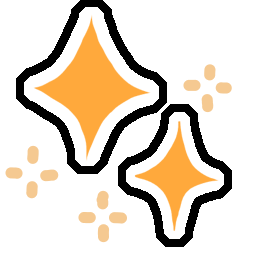
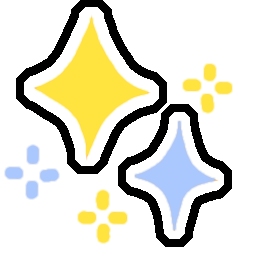
Achievements

diff --git a/Stargazer/Features/StargazerAchievements.cs b/Stargazer/Features/StargazerAchievements.cs
@@ -1,0 +1,43 @@
+using AchievementsAPI.API;
+using MiraAPI.Events;
+using MiraAPI.Events.Vanilla.Gameplay;
+using MiraAPI.Modifiers;
+using Stargazer.Roles.Impostors.Cowboy;
+using Stargazer.Roles.Impostors.Sleepcaster;
+using UnityEngine;
+
+namespace Stargazer.Features;
+
+public class StargazerAchievements : AchievementsTab
+{
+    public override string Name => "Stargazer Achievements";
+    public override Color GetTabColor()
+    {
+        return RFSPalette.RfsColor2;
+    }
+
+    public override Sprite GetIcon()
+    {
+        return Assets.ModIcon.LoadAsset();
+    }
+
+    public BaseAchievement MechanicAchievement1 { get; } = new BaseAchievement("You're not going anywhere",
+        "Disconnect a vent direction.", "Stargazer.Resources.RoleIcons.mechanic.png");
+    public BaseAchievement MechanicAchievement2 { get; } = new BaseAchievement("Gonna sit there?",
+        "Disconnect a vent from all paths.", "Stargazer.Resources.RoleIcons.mechanic.png");
+    
+    public BaseAchievement CarrierAchievement1 { get; } = new("Weight lifter",
+        "Carry and throw a body.",  "Stargazer.Resources.RoleIcons.carrier.png");
+    public BaseAchievement CarrierAchievement2 { get; } = new("Hidden in plain sight",
+        "Throw a body into a vent.", "Stargazer.Resources.RoleIcons.carrier.png");
+    public BaseAchievement CarrierAchievement3 { get; } =
+        new("Ouchies!", "Throw a body onto someone to crush them to death.", "Stargazer.Resources.RoleIcons.carrier.png");
+    
+    public BaseAchievement CowboyAchievement1 { get; } = new("Snatch em'", "Pull a player to you.",  "Stargazer.Resources.RoleIcons.cowboy.png");
+    public BaseAchievement CowboyAchievement2 { get; } = new("On the hunt.", "Use the lasso ability 3 times in one game.", "Stargazer.Resources.RoleIcons.cowboy.png");
+    public BaseAchievement CowboyAchievement3 { get; } = new("You're mine!", "Pull a player that was put to sleep.", "Stargazer.Resources.RoleIcons.cowboy.png");
+
+    public BaseAchievement SleepcasterAchievement1 { get; } =
+        new BaseAchievement("Zzz", "Put atleast two players to sleep with one ability usage.", "Stargazer.Resources.RoleIcons.sleepcaster.png");
+    public BaseAchievement SleepcasterAchievement2 { get; } = new("Sleep paralysis", "Kill an asleep player.", "Stargazer.Resources.RoleIcons.sleepcaster.png");
+}

diff --git a/Stargazer/Roles/Impostors/Cowboy/Lasso.cs b/Stargazer/Roles/Impostors/Cowboy/Lasso.cs
@@ -1,25 +1,40 @@
+using AchievementsAPI.API;
 using MiraAPI.GameOptions;
 using MiraAPI.Hud;
 using MiraAPI.Modifiers;
 using MiraAPI.Utilities;
 using MiraAPI.Utilities.Assets;
+using Stargazer.Features;
 using Stargazer.Networking;
+using Stargazer.Roles.Impostors.Sleepcaster;
 using UnityEngine;
 
 namespace Stargazer.Roles.Impostors.Cowboy;
 
 public class Lasso : CustomActionButton
 {
+    private int timesUsed = 0;
     protected override void OnClick()
     {
+        timesUsed++;
+        AchievementsTabSingleton<StargazerAchievements>.Instance.CowboyAchievement1.Unlock();
+        if (timesUsed == 3) AchievementsTabSingleton<StargazerAchievements>.Instance.CowboyAchievement2.Unlock();
         PlayerControl.LocalPlayer.transform.GetComponent<HnSImpostorScreamSfx>().LocalImpostorYeehaw();
         var target = PlayerControl.LocalPlayer.GetClosestPlayer(false, 1000f, true);
+        if (target == null) return;
         PlayerControl.LocalPlayer.RpcLasso(target);
+        if (target.HasModifier<SleepyModifier>()) AchievementsTabSingleton<StargazerAchievements>.Instance.CowboyAchievement3.Unlock();
     }
 
     public override bool Enabled(RoleBehaviour role)
     {
         return role is CowboyRole;
+    }
+
+    public override void CreateButton(Transform parent)
+    {
+        base.CreateButton(parent);
+        timesUsed = 0;
     }
 
     public override string Name => "Lasso";

diff --git a/Stargazer/Roles/Impostors/Sleepcaster/SleepcasterRole.cs b/Stargazer/Roles/Impostors/Sleepcaster/SleepcasterRole.cs
@@ -1,4 +1,9 @@
+using AchievementsAPI.API;
+using MiraAPI.Events;
+using MiraAPI.Events.Vanilla.Gameplay;
+using MiraAPI.Modifiers;
 using MiraAPI.Roles;
+using Stargazer.Features;
 using UnityEngine;
 
 namespace Stargazer.Roles.Impostors.Sleepcaster;
@@ -19,4 +24,10 @@ public class SleepcasterRole : ImpostorRole, ICustomRole
     {
         Icon = Assets.SleepcasterRoleIcon
     };
+
+    [RegisterEvent]
+    public static void OnMurder(BeforeMurderEvent e)
+    {
+        if (e.Source.AmOwner && e.Target.HasModifier<SleepyModifier>()) AchievementsTabSingleton<StargazerAchievements>.Instance.SleepcasterAchievement2.Unlock();
+    }
 }

diff --git a/Stargazer/Features/MainMenu/ReworkedMainMenu.cs b/Stargazer/Features/MainMenu/ReworkedMainMenu.cs
@@ -1,5 +1,6 @@
 using System;
 using MiraAPI.Utilities;
+using Stargazer.Utilities;
 using UnityEngine;
 
 namespace Stargazer.Features.MainMenu;
@@ -16,5 +17,14 @@ public static class ReworkedMainMenu
         }
 
         menu.mainButtons[0].transform.parent.parent.GetComponent<SpriteRenderer>().material.color = new(0f, 0.9f, 1.1f, 1);
+
+        var trophyBtn = PassiveButtonUtils.CreatePassiveButton("TrophyButton", Assets.Trophy, Assets.TrophyActive,
+            Vector2.one,
+            () =>
+            {
+                var achievementMenu = UnityObject.Instantiate(AchievementsAPI.Assets.achievementPrefab);
+                menu.DeactivateMainMenuUI();
+            });
+        trophyBtn.transform.position = menu.quitButton.transform.position + new Vector3(4, 0, 0);
     }
 }

diff --git a/Stargazer/Networking/RPCHandling.cs b/Stargazer/Networking/RPCHandling.cs
@@ -1,5 +1,6 @@
 using System.Collections;
 using System.Linq;
+using AchievementsAPI.API;
 using MiraAPI.GameOptions;
 using MiraAPI.Modifiers;
 using MiraAPI.Utilities;
@@ -15,6 +16,7 @@ using Stargazer.Utilities;
 using Reactor.Networking.Attributes;
 using Reactor.Utilities;
 using Reactor.Utilities.Extensions;
+using Stargazer.Features;
 using Stargazer.Roles.Impostors.Florist;
 using UnityEngine;
 using UnityEngine.ProBuilder;
@@ -277,7 +279,10 @@ public static class RPCHandler
         })));
         
         //Modifier assignment logic
-        foreach (var p in Helpers.GetClosestPlayers(source, 3f * OptionGroupSingleton<SleepcasterOptions>.Instance.AbilityRange.Value))
+        var closePlayers = Helpers.GetClosestPlayers(source,
+            3f * OptionGroupSingleton<SleepcasterOptions>.Instance.AbilityRange.Value);
+        if (source.AmOwner && closePlayers.Count >= 2) AchievementsTabSingleton<StargazerAchievements>.Instance.SleepcasterAchievement1.Unlock();
+        foreach (var p in closePlayers)
         {
             p.AddModifier<SleepyModifier>();
         }

diff --git a/Stargazer/Roles/Crewmates/Mechanic/DisconnectAbility.cs b/Stargazer/Roles/Crewmates/Mechanic/DisconnectAbility.cs
@@ -1,10 +1,12 @@
 using System.Linq;
+using AchievementsAPI.API;
 using Il2CppSystem;
 using MiraAPI.Hud; 
 using MiraAPI.Utilities;
 using MiraAPI.Utilities.Assets;
 using Reactor.Utilities.Extensions;
 using Rewired;
+using Stargazer.Features;
 using Stargazer.Networking;
 using UnityEngine;
 using UnityEngine.Events;
@@ -42,6 +44,8 @@ public class DisconnectAbility : CustomActionButton<Vent>
                     Target.SetButtons(false);
                     
                     PlayerControl.LocalPlayer.moveable = true;
+                    AchievementsTabSingleton<StargazerAchievements>.Instance.MechanicAchievement1.Unlock();
+                    if (Target.Buttons.Count(x => x.enabled) == 0) AchievementsTabSingleton<StargazerAchievements>.Instance.MechanicAchievement2.Unlock();
                 }
             }));
         }

diff --git a/Stargazer/Roles/Impostors/Carrier/CarryingModifier.cs b/Stargazer/Roles/Impostors/Carrier/CarryingModifier.cs
@@ -1,6 +1,7 @@
 using System;
 using System.Collections;
 using System.Linq;
+using AchievementsAPI.API;
 using MiraAPI.Events;
 using MiraAPI.Events.Vanilla.Gameplay;
 using MiraAPI.GameOptions;
@@ -12,6 +13,7 @@ using Reactor.Utilities;
 using Stargazer.Components;
 using Stargazer.Utilities;
 using Reactor.Utilities.Extensions;
+using Stargazer.Features;
 using UnityEngine;
 using UnityEngine.Events;
 
@@ -137,6 +139,7 @@ public class CarryingModifier(byte PlayerId) : BaseModifier
                             Effects.Action(new System.Action((() => Player.CustomMurder(nearbyPlayer,
                                 MurderResultFlags.DecisionByHost, teleportMurderer: false, showKillAnim: false))))
                         ));
+                        if (Player.AmOwner) AchievementsTabSingleton<StargazerAchievements>.Instance.CarrierAchievement2.Unlock();
                     }
                     
                     else if (nearbyVent && options.ThrowInVent)
@@ -145,6 +148,7 @@ public class CarryingModifier(byte PlayerId) : BaseModifier
                         Body.transform.SetParent(nearbyVent.transform);
                         if (nearbyVent.EnterVentAnim) nearbyVent.myAnim.Play(nearbyVent.EnterVentAnim, 1f);
                         Coroutines.Start(RFSEffects.Boop(nearbyVent.transform, 0.3f, 2.5f, 0.3f));
+                        if (Player.AmOwner) AchievementsTabSingleton<StargazerAchievements>.Instance.CarrierAchievement3.Unlock();
                     }
                 })
         ));

diff --git a/Stargazer/RFSAssets.cs b/Stargazer/RFSAssets.cs
@@ -166,4 +166,7 @@ public static class Assets
     public static LoadableResourceAsset WildcardRoleIcon { get; } =  new("Stargazer.Resources.RoleIcons.wildcard.png");
     public static LoadableBundleAsset<GameObject> FloristTallGrass { get; } = new("FloristTallGrass.prefab", Bundle);
     public static LoadableBundleAsset<GameObject> FloristFlowers { get; } = new("FloristFlowers.prefab", Bundle);
+    public static LoadableResourceAsset ModIcon { get; } = new("Stargazer.Resources.UI.ModIcon.png");
+    public static LoadableResourceAsset Trophy { get; } = new("Stargazer.Resources.UI.Trophy.png");
+    public static LoadableResourceAsset TrophyActive { get; } = new("Stargazer.Resources.UI.TrophyActive.png");
 }

diff --git a/Stargazer/Roles/Impostors/Carrier/Carry.cs b/Stargazer/Roles/Impostors/Carrier/Carry.cs
@@ -1,9 +1,11 @@
+using AchievementsAPI.API;
 using MiraAPI.GameOptions;
 using MiraAPI.Hud;
 using MiraAPI.Modifiers;
 using MiraAPI.Utilities;
 using MiraAPI.Utilities.Assets;
 using PowerTools;
+using Stargazer.Features;
 using UnityEngine;
 
 namespace Stargazer.Roles.Impostors.Carrier;
@@ -13,6 +15,7 @@ public class Carry : CustomActionButton<DeadBody>
     protected override void OnClick()
     {
         Button.OverrideText("Throw");
+        AchievementsTabSingleton<StargazerAchievements>.Instance.CarrierAchievement1.Unlock();
         PlayerControl.LocalPlayer.RpcAddModifier<CarryingModifier>(Target.ParentId);
     }
 

diff --git a/Stargazer/RFSPlugin.cs b/Stargazer/RFSPlugin.cs
@@ -1,4 +1,5 @@
 using System.IO;
+using AchievementsAPI;
 using BepInEx;
 using BepInEx.Configuration;
 using BepInEx.Unity.IL2CPP;
@@ -19,6 +20,7 @@ namespace Stargazer;
 [BepInAutoPlugin("com.missingpixel.stargazer", "Stargazer", "2.0.1")]
 [BepInProcess("Among Us.exe")]
 [BepInDependency(ReactorPlugin.Id)]
+[BepInDependency(AchievementsAPIPlugin.Id)]
 [BepInDependency(MiraApiPlugin.Id)]
 [ReactorModFlags(ModFlags.RequireOnAllClients)]
 public partial class StargazerPlugin : BasePlugin, IMiraPlugin

diff --git a/Stargazer/obj/Release/net6.0/Stargazer.AssemblyInfo.cs b/Stargazer/obj/Release/net6.0/Stargazer.AssemblyInfo.cs
@@ -14,7 +14,7 @@ using System.Reflection;
 [assembly: System.Reflection.AssemblyConfigurationAttribute("Release")]
 [assembly: System.Reflection.AssemblyDescriptionAttribute("The Silliest Among Us Mod")]
 [assembly: System.Reflection.AssemblyFileVersionAttribute("1.0.0.0")]
-[assembly: System.Reflection.AssemblyInformationalVersionAttribute("1.0.0+68b097fbbe3d4dad1a89bf7f6401169593f28abc")]
+[assembly: System.Reflection.AssemblyInformationalVersionAttribute("1.0.0+1dc45c23740fc4edfb70e2bfabcde2cd3871d439")]
 [assembly: System.Reflection.AssemblyProductAttribute("Stargazer")]
 [assembly: System.Reflection.AssemblyTitleAttribute("Stargazer")]
 [assembly: System.Reflection.AssemblyVersionAttribute("1.0.0.0")]